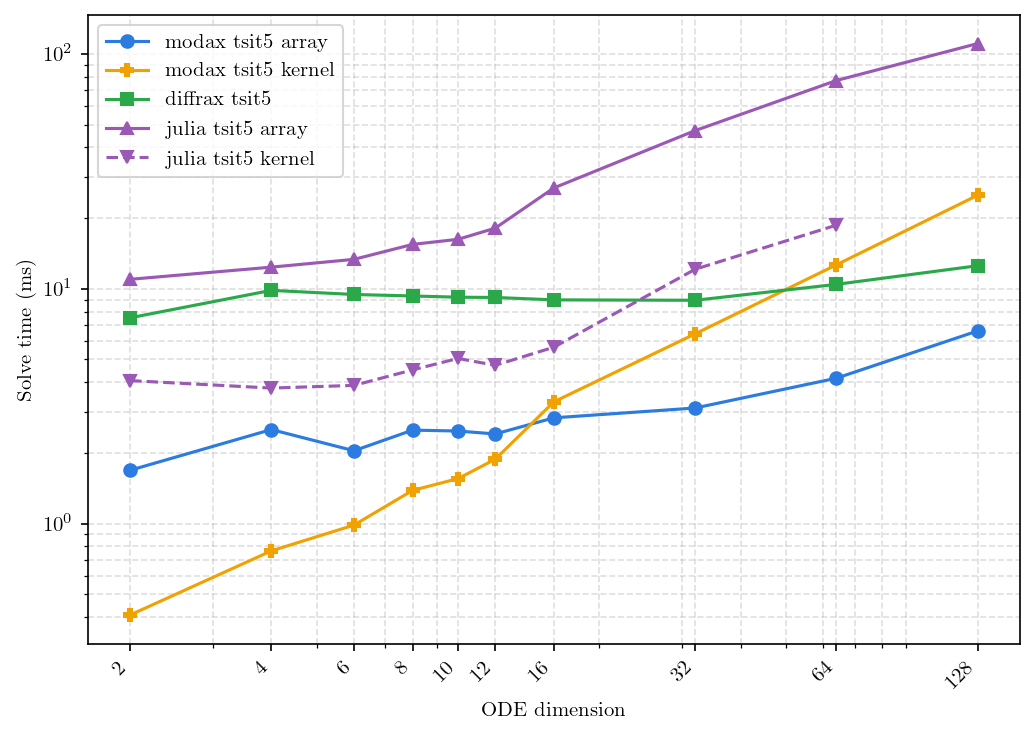
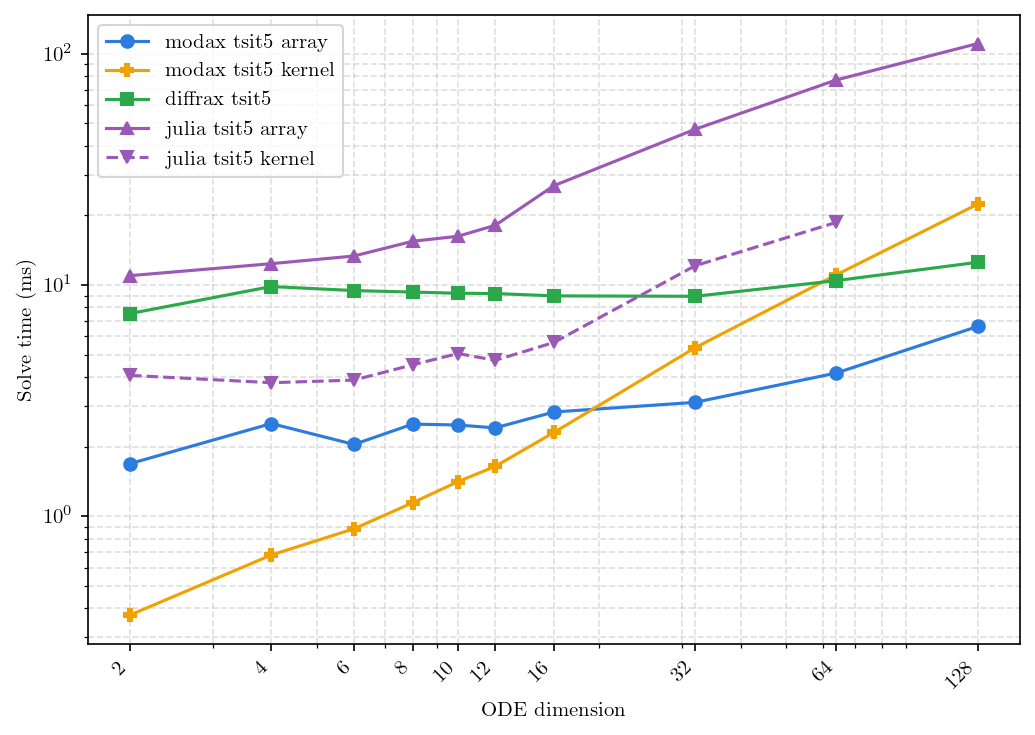
Store state and stage vectors in a transposed manner for contiguous memory access

diff --git a/solvers/tsit5numba.py b/solvers/tsit5numba.py
@@ -29,10 +29,9 @@ from solvers._numba_common import (
     NumbaWorkspace,
     PreparedNumbaSolve,
     build_error_weights,
-    copy_workspace_inputs,
     initial_step,
     jax_stats,
-    make_cuda_vector_writer,
+    make_cuda_transposed_vector_writer,
     numpy_stats,
 )
 from solvers._numba_common import (
@@ -134,16 +133,20 @@ def get_workspace(
     if workspace is not None:
         return workspace
 
+    # State and stage vectors are stored transposed (n_vars, n) so that for a
+    # fixed component the trajectory axis is contiguous, giving coalesced warp
+    # accesses independent of n_vars. hist keeps the (n, n_save, n_vars) output
+    # layout (written only at save points).
     workspace = Workspace(
-        y0_dev=cuda.device_array((n, n_vars), dtype=np.float64),
+        y0_dev=cuda.device_array((n_vars, n), dtype=np.float64),
         times_dev=cuda.device_array(n_save, dtype=np.float64),
         params_dev=cuda.device_array((n, n_params), dtype=np.float64),
         hist_dev=cuda.device_array((n, n_save, n_vars), dtype=np.float64),
         accepted_dev=cuda.device_array(n, dtype=np.int32),
         rejected_dev=cuda.device_array(n, dtype=np.int32),
         loop_dev=cuda.device_array(n, dtype=np.int32),
-        work=[cuda.device_array((n, n_vars), dtype=np.float64) for _ in range(9)],
-        weights_dev=cuda.device_array((n, n_vars), dtype=np.float64),
+        work=[cuda.device_array((n_vars, n), dtype=np.float64) for _ in range(9)],
+        weights_dev=cuda.device_array((n_vars, n), dtype=np.float64),
     )
     cache[key] = workspace
     return workspace
@@ -162,7 +165,7 @@ def _make_kernel(
     e1 = EXPONENT * (icoeff + pcoeff + dcoeff)
     e2 = -EXPONENT * (pcoeff + 2.0 * dcoeff)
     e3 = EXPONENT * dcoeff
-    ode_write = make_cuda_vector_writer(ode_fn, n_vars)
+    ode_write = make_cuda_transposed_vector_writer(ode_fn, n_vars)
 
     @cuda.jit
     def kernel(
@@ -189,13 +192,13 @@ def _make_kernel(
         k7,
     ):
         i = cuda.grid(1)
-        if i >= y0.shape[0]:
+        if i >= y0.shape[1]:
             return
 
         for j in range(n_vars):
-            y[i, j] = y0[i, j]
-            hist[i, 0, j] = y0[i, j]
-            k7[i, j] = 0.0
+            y[j, i] = y0[j, i]
+            hist[i, 0, j] = y0[j, i]
+            k7[j, i] = 0.0
 
         n_save = times.shape[0]
         t = times[0]
@@ -219,64 +222,64 @@ def _make_kernel(
 
             if has_fsal:
                 for j in range(n_vars):
-                    k1[i, j] = k7[i, j]
+                    k1[j, i] = k7[j, i]
             else:
                 ode_write(y, t, params, k1, i)
 
             for j in range(n_vars):
-                u[i, j] = y[i, j] + dt_use * (A21 * k1[i, j])
+                u[j, i] = y[j, i] + dt_use * (A21 * k1[j, i])
             ode_write(u, t + C2 * dt_use, params, k2, i)
 
             for j in range(n_vars):
-                u[i, j] = y[i, j] + dt_use * (A31 * k1[i, j] + A32 * k2[i, j])
+                u[j, i] = y[j, i] + dt_use * (A31 * k1[j, i] + A32 * k2[j, i])
             ode_write(u, t + C3 * dt_use, params, k3, i)
 
             for j in range(n_vars):
-                u[i, j] = y[i, j] + dt_use * (
-                    A41 * k1[i, j] + A42 * k2[i, j] + A43 * k3[i, j]
+                u[j, i] = y[j, i] + dt_use * (
+                    A41 * k1[j, i] + A42 * k2[j, i] + A43 * k3[j, i]
                 )
             ode_write(u, t + C4 * dt_use, params, k4, i)
 
             for j in range(n_vars):
-                u[i, j] = y[i, j] + dt_use * (
-                    A51 * k1[i, j] + A52 * k2[i, j] + A53 * k3[i, j] + A54 * k4[i, j]
+                u[j, i] = y[j, i] + dt_use * (
+                    A51 * k1[j, i] + A52 * k2[j, i] + A53 * k3[j, i] + A54 * k4[j, i]
                 )
             ode_write(u, t + C5 * dt_use, params, k5, i)
 
             for j in range(n_vars):
-                u[i, j] = y[i, j] + dt_use * (
-                    A61 * k1[i, j]
-                    + A62 * k2[i, j]
-                    + A63 * k3[i, j]
-                    + A64 * k4[i, j]
-                    + A65 * k5[i, j]
+                u[j, i] = y[j, i] + dt_use * (
+                    A61 * k1[j, i]
+                    + A62 * k2[j, i]
+                    + A63 * k3[j, i]
+                    + A64 * k4[j, i]
+                    + A65 * k5[j, i]
                 )
             ode_write(u, t + C6 * dt_use, params, k6, i)
 
             for j in range(n_vars):
-                u[i, j] = y[i, j] + dt_use * (
-                    B1 * k1[i, j]
-                    + B2 * k2[i, j]
-                    + B3 * k3[i, j]
-                    + B4 * k4[i, j]
-                    + B5 * k5[i, j]
-                    + B6 * k6[i, j]
+                u[j, i] = y[j, i] + dt_use * (
+                    B1 * k1[j, i]
+                    + B2 * k2[j, i]
+                    + B3 * k3[j, i]
+                    + B4 * k4[j, i]
+                    + B5 * k5[j, i]
+                    + B6 * k6[j, i]
                 )
             ode_write(u, t + C7 * dt_use, params, k7, i)
 
             err_sum = 0.0
             for j in range(n_vars):
                 err_est = dt_use * (
-                    E1 * k1[i, j]
-                    + E2 * k2[i, j]
-                    + E3 * k3[i, j]
-                    + E4 * k4[i, j]
-                    + E5 * k5[i, j]
-                    + E6 * k6[i, j]
-                    + E7 * k7[i, j]
+                    E1 * k1[j, i]
+                    + E2 * k2[j, i]
+                    + E3 * k3[j, i]
+                    + E4 * k4[j, i]
+                    + E5 * k5[j, i]
+                    + E6 * k6[j, i]
+                    + E7 * k7[j, i]
                 )
-                scale = atol + rtol * max(abs(y[i, j]), abs(u[i, j]))
-                r = weights[i, j] * err_est / scale
+                scale = atol + rtol * max(abs(y[j, i]), abs(u[j, i]))
+                r = weights[j, i] * err_est / scale
                 err_sum += r * r
             err_norm = math.sqrt(err_sum / n_vars)
             accept = err_norm <= 1.0 and not math.isnan(err_norm)
@@ -284,14 +287,14 @@ def _make_kernel(
             if accept:
                 t_new = t + dt_use
                 for j in range(n_vars):
-                    y[i, j] = u[i, j]
+                    y[j, i] = u[j, i]
                 accepted_steps += 1
                 has_fsal = True
             else:
                 t_new = t
                 rejected_steps += 1
                 for j in range(n_vars):
-                    k7[i, j] = 0.0
+                    k7[j, i] = 0.0
                 has_fsal = False
 
             reached = accept and (
@@ -299,7 +302,7 @@ def _make_kernel(
             )
             if reached:
                 for j in range(n_vars):
-                    hist[i, save_idx, j] = y[i, j]
+                    hist[i, save_idx, j] = y[j, i]
                 save_idx += 1
 
             if math.isnan(err_norm) or err_norm > 1e18:
@@ -354,8 +357,12 @@ def prepare_solve(
     weights_arr = build_error_weights(error_weights, n, n_vars)
 
     workspace = get_workspace(_WORKSPACE_CACHE, n, n_vars, n_save, n_params)
-    copy_workspace_inputs(workspace, y0_arr, times, params_arr)
-    workspace.weights_dev.copy_to_device(weights_arr)
+    # State/weights live transposed (n_vars, n) on the device; params keep the
+    # (n, n_params) row layout consumed by the callback.
+    workspace.y0_dev.copy_to_device(np.ascontiguousarray(y0_arr.T))
+    workspace.times_dev.copy_to_device(times)
+    workspace.params_dev.copy_to_device(params_arr)
+    workspace.weights_dev.copy_to_device(np.ascontiguousarray(weights_arr.T))
 
     threads = 128
     blocks = (n + threads - 1) // threads
@@ -514,17 +521,22 @@ def _solve_impl(
     n_params = params_arr.shape[1]
     dt0 = initial_step(times, first_step)
     weights_arr = jnp.asarray(build_error_weights(error_weights, n, n_vars))
+    # State/stage/weights are transposed (n_vars, n) so the kernel's warp
+    # accesses are coalesced; XLA materializes the transpose as a C-contiguous
+    # operand. hist keeps the (n, n_save, n_vars) output layout.
+    y0_t = y0_arr.T
+    weights_t = weights_arr.T
 
     launch = _make_jax_launch(
         ode_fn, n, n_vars, n_save, n_params, pcoeff, icoeff, dcoeff
     )
     hist_spec = jax.ShapeDtypeStruct((n, n_save, n_vars), jnp.float64)
     int_spec = jax.ShapeDtypeStruct((n,), jnp.int32)
-    work_spec = jax.ShapeDtypeStruct((n, n_vars), jnp.float64)
+    work_spec = jax.ShapeDtypeStruct((n_vars, n), jnp.float64)
     output_specs = (hist_spec, int_spec, int_spec, int_spec) + (work_spec,) * 9
     result = ffi_abi_call(
         launch,
-        (y0_arr, times, params_arr, weights_arr),
+        (y0_t, times, params_arr, weights_t),
         output_specs,
         input_kinds=(
             ABI_ARRAY,

diff --git a/scripts/4_tsit5_vdp_dimensionality/main.py b/scripts/4_tsit5_vdp_dimensionality/main.py
@@ -24,8 +24,6 @@ from typing import Any, Callable, Sequence
 import jax
 import jax.numpy as jnp
 import matplotlib.pyplot as plt
-import numpy as np
-from numba import cuda
 
 sys.path.insert(0, str(Path(__file__).resolve().parents[2]))
 
@@ -140,22 +138,6 @@ CASES: tuple[Case, ...] = (
 )
 
 
[email redacted](device=True)
-def ode_fn_vdp_numba(y, t, p, dy, i):
-    n_osc = int(p[i, 0])
-    scale = p[i, 1]
-    mu = 1.0
-    diffusion = 10.0
-    for k in range(n_osc):
-        kp1 = (k + 1) % n_osc
-        km1 = (k + n_osc - 1) % n_osc
-        xk = y[i, 2 * k]
-        vk = y[i, 2 * k + 1]
-        lap = y[i, 2 * kp1] - 2.0 * xk + y[i, 2 * km1]
-        dy[i, 2 * k] = vk
-        dy[i, 2 * k + 1] = scale * mu * (1.0 - xk * xk) * vk - xk + diffusion * lap
-
-
 def _vdp_system_config(n_osc: int) -> dict[str, float | int]:
     return {"n_osc": n_osc, "mu": _MU_NONSTIFF, "d": _D, "omega": _OMEGA}
 
@@ -178,17 +160,12 @@ def time_case(case: Case, dim: int, *, divergence: float) -> float:
         )
 
     if case.mode == "custom":
-        custom_params = np.column_stack(
-            [
-                np.full(_ENSEMBLE_SIZE, float(n_osc), dtype=np.float64),
-                params[:, 0],
-            ]
-        )
+        ode_fn, _, _ = vdp.make_system(n_osc, mu=_MU_NONSTIFF)
         prepared = tsit5numba_prepare_solve(
-            ode_fn_vdp_numba,
+            ode_fn,
             y0=y0_batch,
             t_span=case.t_span,
-            params=custom_params,
+            params=params,
             **kwargs,
         )
 

diff --git a/solvers/_numba_common.py b/solvers/_numba_common.py
@@ -165,6 +165,26 @@ def make_cuda_vector_writer(fn, n_vars: int):
 
 
 @functools.cache
+def make_cuda_transposed_vector_writer(fn, n_vars: int):
+    """Like :func:`make_cuda_vector_writer`, but for transposed (SoA) state.
+
+    State/work arrays are laid out ``(n_vars, n)`` so that for a fixed component
+    the trajectory axis is contiguous. The strided column ``y[:, i]`` passed to
+    the callback is coalesced across the warp (all lanes read the same component
+    at consecutive ``i``), so no per-lane gather is needed.
+    """
+    fn_device = as_cuda_device(fn)
+
+    @cuda.jit(device=True)
+    def write_vector(y, t, p, out, i):
+        values = fn_device(y[:, i], t, p[i])
+        for j in range(n_vars):
+            out[j, i] = values[j]
+
+    return write_vector
+
+
[email redacted]
 def make_cuda_striped_vector_writer(fn, n_vars: int):
     """Like :func:`make_cuda_vector_writer`, but each lane writes a disjoint
     output stripe ``j = lane, lane + stride, ...`` so a batch's lanes share the